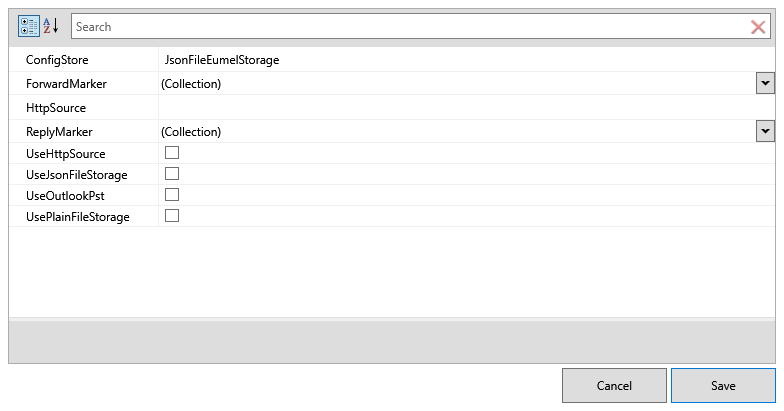
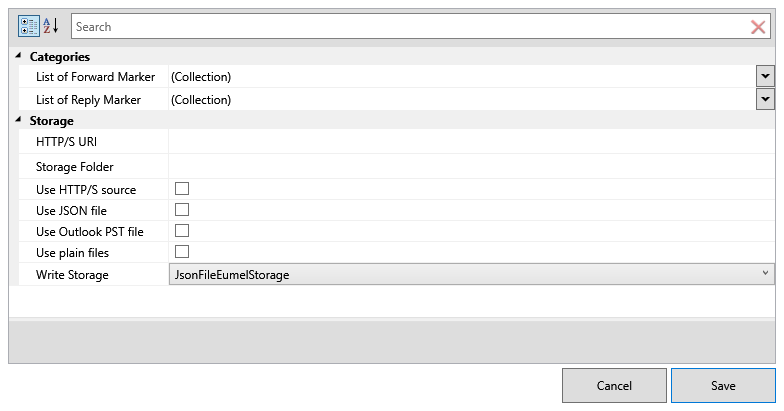
settings windows uses features of the property grid to beautify the visualization.

diff --git a/Eumel.EmailCategorizer/Eumel.EmailCategorizer.WpfUI/Model/ConfigModel.cs b/Eumel.EmailCategorizer/Eumel.EmailCategorizer.WpfUI/Model/ConfigModel.cs
@@ -1,18 +1,58 @@
 using System.Collections.Generic;
+using System.ComponentModel;
 using Eumel.EmailCategorizer.WpfUI.Storage;
+using Xceed.Wpf.Toolkit.PropertyGrid.Attributes;
 
 namespace Eumel.EmailCategorizer.WpfUI.Model
 {
     public class ConfigModel
     {
+
+        [Category("Categories")]
+        [DisplayName("List of Forward Marker")]
+        [Description("List of markers which are prefixed if an email is forwarded e.g. 'FW:'")]
         public List<string> ForwardMarker { get; set; }
+
+        [Category("Categories")]
+        [DisplayName("List of Reply Marker")]
+        [Description("List of markers which are prefixed if an email is replied e.g. 'RE:'")]
         public List<string> ReplyMarker { get; set; }
+
+        [Category("Storage")]
+        [DisplayName("Use Outlook PST file")]
+        [Description("Use the Outlook PST file to read categories")]
         public bool UseOutlookPst { get; set; }
+
+        [Category("Storage")]
+        [DisplayName("Use plain files")]
+        [Description("Use plain files in %localappdata% or 'Storage Folder' to store a file per configuration setting")]
         public bool UsePlainFileStorage { get; set; }
+
+        [Category("Storage")]
+        [DisplayName("Use JSON file")]
+        [Description("Use a single json file to store the settings.")]
         public bool UseJsonFileStorage { get; set; }
+
+        [Category("Storage")]
+        [DisplayName("Use HTTP/S source")]
+        [Description("Use a http or https source which contains the data.")]
         public bool UseHttpSource { get; set; }
+ 
+        [Category("Storage")]
+        [DisplayName("HTTP/S URI")]
+        [Description("Endpoint for the HTTP storage")]
         public string HttpSource { get; set; }
+
+
+        [Category("Storage")]
+        [DisplayName("Storage Folder")]
+        [Description("Local folder to store configuration. Default: %localappdata%")]
         public string StorageFolder { get; set; }
+        
+        [Category("Storage")]
+        [DisplayName("Write Storage")]
+        [Description("Storage or Endpoint which is used to store data. The write storage is always used as read source, too.")]
+        [ItemsSource(typeof(EumelStorageWriteSources))]
         public string WriteStorage { get; set; }
 
         public static ConfigModel Default()

diff --git a/Eumel.EmailCategorizer/Eumel.EmailCategorizer.WpfUI/Storage/EumelStorageWriteSources.cs b/Eumel.EmailCategorizer/Eumel.EmailCategorizer.WpfUI/Storage/EumelStorageWriteSources.cs
@@ -1,0 +1,18 @@
+using Xceed.Wpf.Toolkit.PropertyGrid.Attributes;
+
+namespace Eumel.EmailCategorizer.WpfUI.Storage
+{
+    public class EumelStorageWriteSources : IItemsSource
+    {
+        public ItemCollection GetValues()
+        {
+            var result = new ItemCollection();
+            result.Add(nameof(FileEumelStorage));
+            result.Add(nameof(JsonFileEumelStorage));
+            result.Add(nameof(RegistryEumelStorage));
+            result.Add("OutlookEumelStorage");
+
+            return result;
+        }
+    }
+}

diff --git a/Eumel.EmailCategorizer/Eumel.EmailCategorizer.WpfUI/Storage/IEumelStorage.cs b/Eumel.EmailCategorizer/Eumel.EmailCategorizer.WpfUI/Storage/IEumelStorage.cs
@@ -1,4 +1,9 @@
-namespace Eumel.EmailCategorizer.WpfUI.Storage
+using System;
+using System.Collections;
+using System.Collections.Generic;
+using System.Reflection;
+
+namespace Eumel.EmailCategorizer.WpfUI.Storage
 {
     /// <summary>
     /// gets a specific configuration from a persistent store.

diff --git a/README.md b/README.md
@@ -20,5 +20,9 @@ The configuration is put into a "backstage view" which cna be found underneath t
 
 The first option provides a dialog to edit the categories, which are stored during sending emails.
 
-![Subject Editor](/Assets/eumel_categoryeditor.png?raw=true)
+![Categories Editor](/Assets/eumel_categoryeditor.png?raw=true)
+
+The second option provides a dialog to edit the settings
+
+![Settings Editor](/Assets/eumel_settingseditor.png?raw=true)
 
